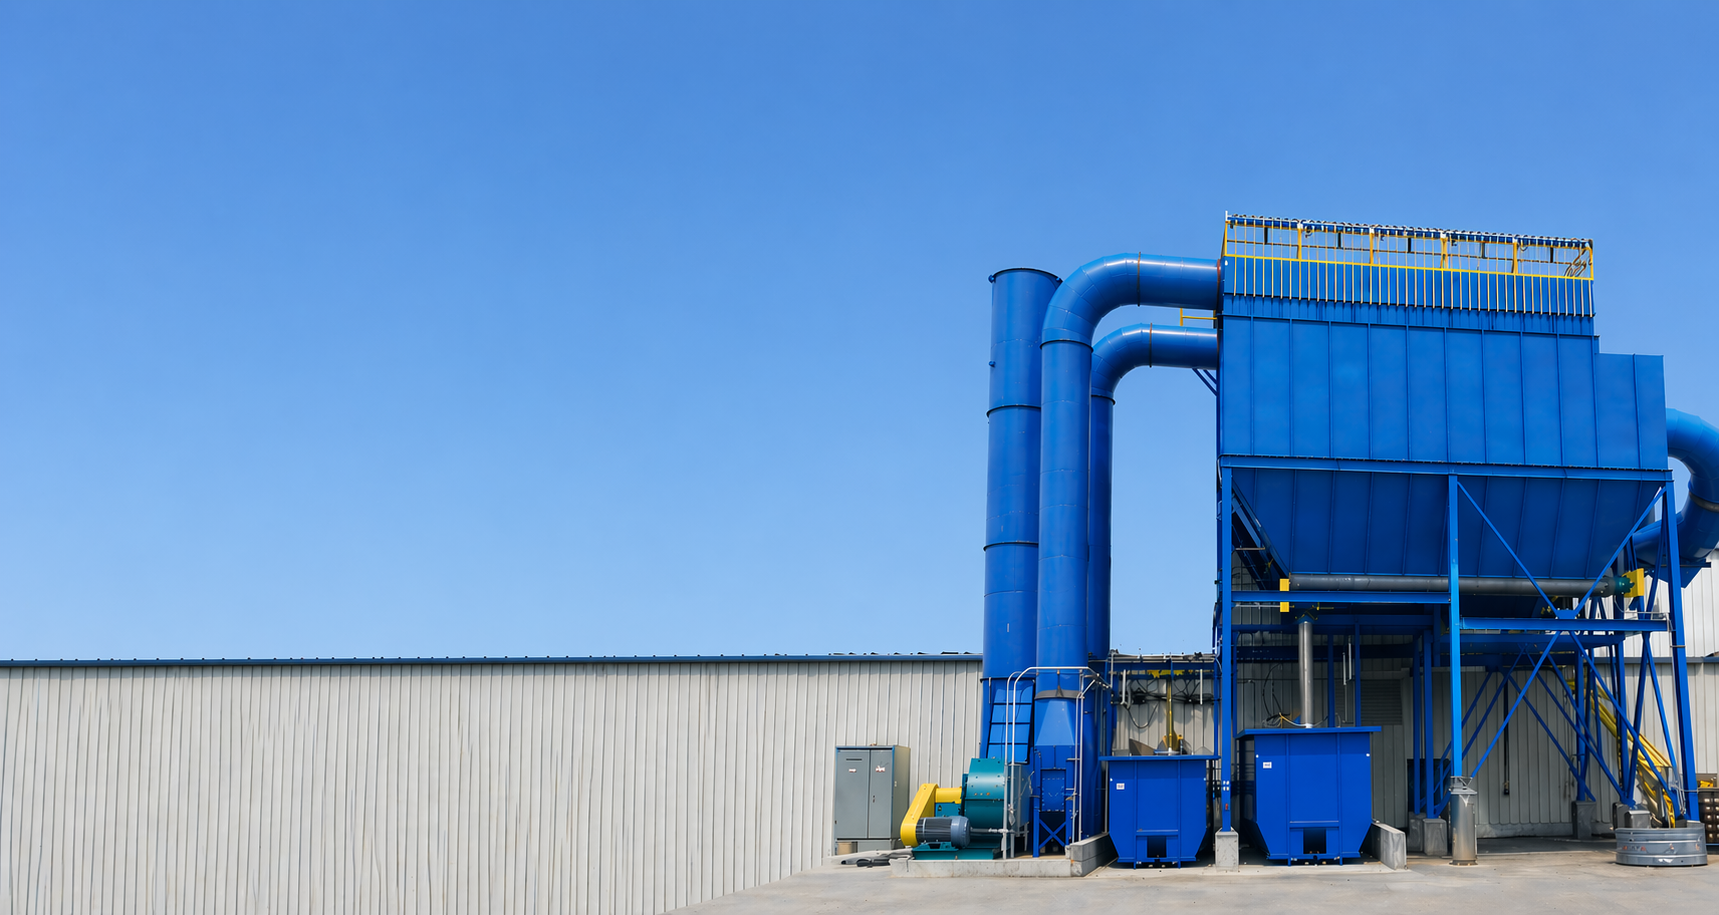
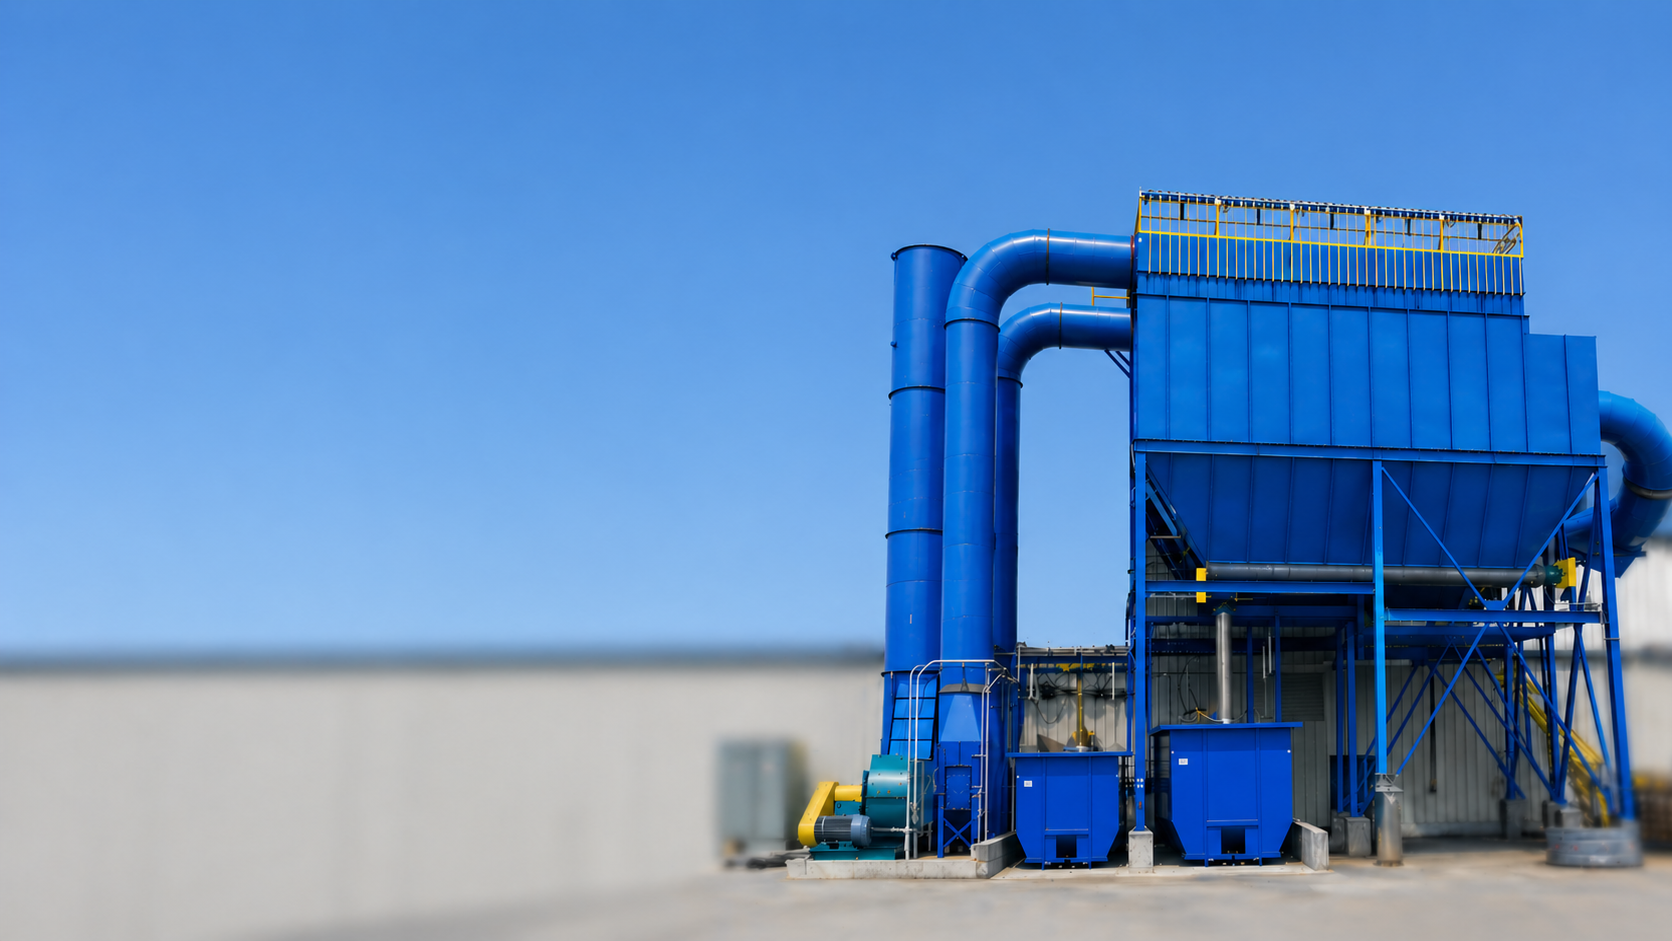
image change

diff --git a/app/partnering/components/PartneringHeroSection.tsx b/app/partnering/components/PartneringHeroSection.tsx
@@ -1,7 +1,23 @@
+// ─── IMAGE VIEWPORT ──────────────────────────────────────────────
+// Adjust the position below to reframe which part of the image shows.
+// Format: "X% Y%"
+//   X → horizontal: 0% = far left, 50% = center, 100% = far right
+//   Y → vertical:   0% = top,      50% = center, 100% = bottom
+const IMAGE_POSITION = "50% 50%"; // ← change this value to reframe the image
+// ─────────────────────────────────────────────────────────────────
+
 export default function PartneringHeroSection() {
     return (
-        <section className="pt-20 pb-16 lg:pt-28 lg:pb-24 bg-gradient-to-br from-gray-50 to-white">
-            <div className="max-w-7xl mx-auto px-4 sm:px-6 lg:px-8">
+        <section
+            className="pt-20 pb-16 lg:pt-28 lg:pb-24 relative"
+            style={{
+                backgroundImage: "url('/images/partners/partner.png')",
+                backgroundSize: "cover",
+                backgroundPosition: IMAGE_POSITION,
+                backgroundRepeat: "no-repeat",
+            }}
+        >
+            <div className="relative z-10 max-w-7xl mx-auto px-4 sm:px-6 lg:px-8">
                 <div className="text-center max-w-4xl mx-auto">
                     {/* Partnering Badge */}
                     <div className="flex justify-center mb-8">
@@ -17,7 +33,7 @@ export default function PartneringHeroSection() {
                     </h1>
 
                     {/* Subtitle */}
-                    <p className="text-xl lg:text-2xl text-gray-600 leading-relaxed max-w-3xl mx-auto">
+                    <p className="text-lg lg:text-xl text-black leading-relaxed max-w-3xl mx-auto" style={{ textShadow: "0 0 12px rgba(255,255,255,0.95), 0 2px 6px rgba(255,255,255,0.8)" }}>
                         Collaboration and strategic partnerships are key fundamentals in our business. Together, we create sustainable growth and innovation.
                     </p>
                 </div>

diff --git a/app/components/Footer.tsx b/app/components/Footer.tsx
@@ -15,24 +15,24 @@ export default function Footer() {
     products: [
       {
         name: "Industrial Dust, Fume & Mist",
-        href: "#",
+        href: "/products/industrial-dust-fume-mist",
       },
       // { name: "Emission Monitoring", href: "#" },
       {
         name: "Power Transmission Technology",
-        href: "#",
+        href: "/products/power-transmission-tech",
       },
       {
         name: "Gas Turbine Filtration",
-        href: "#",
+        href: "/products/gas-turbine-filtration",
       },
       {
-        name: "Gas Phase Filtration",
-        href: "#",
+        name: "Steam Trap",
+        href: "/products/steam-trap",
       },
-      { name: "Flow & Level Instrument", href: "#" },
-      { name: "Condition Monitoring Equipment", href: "#" },
-      { name: "Screw Pumps", href: "#" },
+      { name: "Flow & Level Instrument", href: "/products/flow-level-instrument" },
+      { name: "Condition Monitoring Equipment", href: "/products/condition-monitoring-equipment" },
+      { name: "Screw Pumps", href: "/products/screw-pumps" },
       // { name: "Microbial Filtration", href: "#" },
     ],
   };